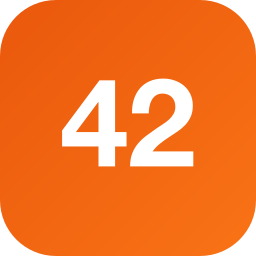
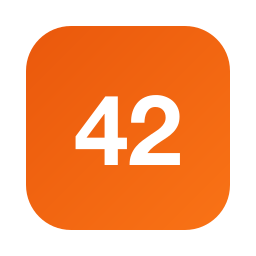
feat: 更新图标生成脚本，优化 macOS 图标规范，调整图标内边距和文本位置

diff --git a/scripts/generate-icon.ts b/scripts/generate-icon.ts
@@ -14,8 +14,13 @@ const ICONSET_DIR = join(ROOT, "icon.iconset");
 
 // SVG 定义，使用与 CSS 相同的渐变色
 const svg = (size: number) => {
-  const radius = Math.round(size * 0.22); // 约 22% 圆角，对应 32px 时的 9px
-  const fontSize = Math.round(size * 0.48);
+  // macOS 图标规范：内容占画布 80%，四周留 10% 空白
+  const pad = Math.round(size * 0.10);
+  const inner = size - pad * 2;
+  const radius = Math.round(inner * 0.22);
+  const fontSize = Math.round(inner * 0.48);
+  const cx = size / 2;
+  const cy = size / 2;
   return `<svg xmlns="http://www.w3.org/2000/svg" width="${size}" height="${size}" viewBox="0 0 ${size} ${size}">
   <defs>
     <linearGradient id="grad" x1="0%" y1="0%" x2="100%" y2="100%">
@@ -23,9 +28,9 @@ const svg = (size: number) => {
       <stop offset="100%" style="stop-color:#f97316;stop-opacity:1" />
     </linearGradient>
   </defs>
-  <rect width="${size}" height="${size}" rx="${radius}" ry="${radius}" fill="url(#grad)" />
+  <rect x="${pad}" y="${pad}" width="${inner}" height="${inner}" rx="${radius}" ry="${radius}" fill="url(#grad)" />
   <text
-    x="50%" y="65%"
+    x="${cx}" y="${cy + Math.round(inner * 0.18)}"
     dominant-baseline="middle"
     text-anchor="middle"
     font-family="-apple-system, BlinkMacSystemFont, 'SF Pro Display', 'Helvetica Neue', Arial, sans-serif"
